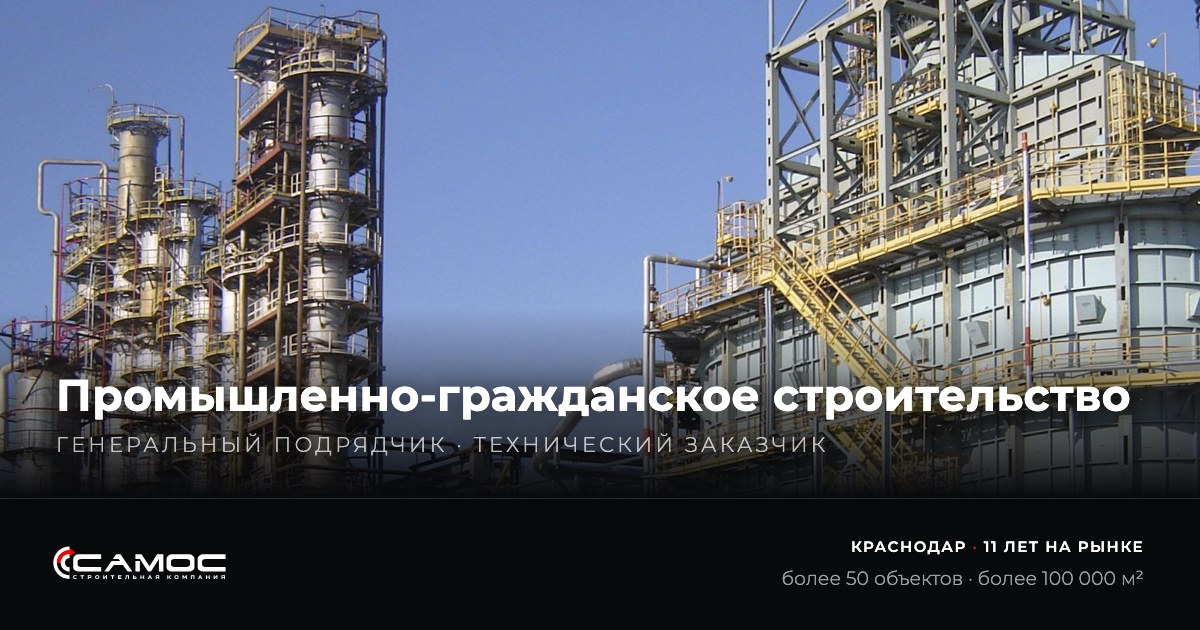
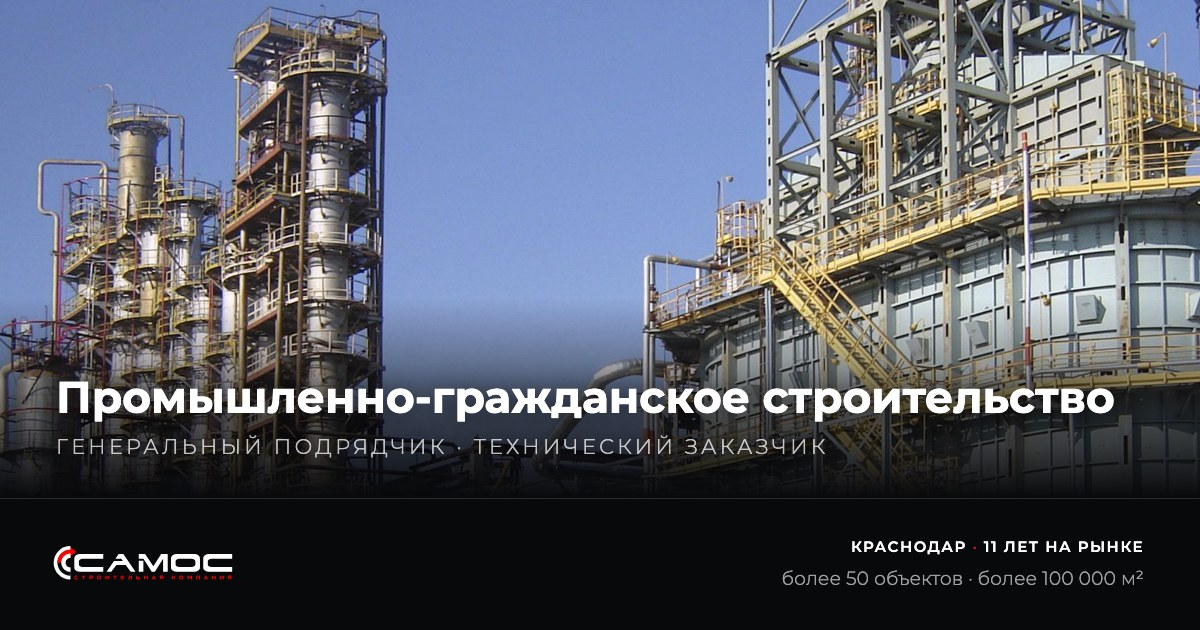
previews batch: 1 шт

diff --git a/sk-samos-krasnodar/index.html b/sk-samos-krasnodar/index.html
@@ -105,12 +105,12 @@ ul,ol{padding:0;list-style:none}
 .sec{padding:clamp(72px,8vw,128px) 0;position:relative;scroll-margin-top:100px}
 .sec.alt{background:var(--bg-2)}
 .sec-title{text-align:center;font-size:clamp(24px,2.9vw,40px);line-height:1.15;text-transform:uppercase;letter-spacing:.03em;font-weight:600;margin-bottom:clamp(44px,5vw,72px)}
-.sec-title::after{content:"";display:block;width:44px;height:2px;background:var(--red);margin:22px auto 0}
+.sec-title::after{content:"";display:block;width:clamp(96px,10vw,148px);height:2px;background:var(--red);margin:24px auto 0}
 
 /* о компании */
 .about{max-width:1120px;margin-inline:auto}
-.about-lead{font-size:clamp(21px,2.3vw,33px);line-height:1.42;font-weight:400;color:var(--white)}
-.about-text{margin-top:clamp(24px,2.8vw,40px);font-size:clamp(16.5px,1.4vw,20.5px);line-height:1.72;font-weight:300;color:var(--soft)}
+.about p{font-size:clamp(21px,2.3vw,33px);line-height:1.42;font-weight:400;color:var(--white)}
+.about p+p{margin-top:clamp(24px,2.8vw,40px)}
 
 /* фото-вставка */
 .band{background:#000;overflow:hidden}
@@ -139,11 +139,10 @@ ul,ol{padding:0;list-style:none}
 .doc img{width:100%;aspect-ratio:3/4;object-fit:cover;object-position:top center}
 .doc .t{display:block;margin-top:18px;font-size:12.5px;line-height:1.45;font-weight:600;letter-spacing:.06em;text-transform:uppercase}
 .doc small{display:block;margin-top:6px;color:var(--muted);font-weight:300;font-size:13px;line-height:1.45}
-.doclist{display:grid;grid-template-columns:repeat(3,minmax(0,1fr));gap:0 44px;margin-top:clamp(56px,6vw,88px)}
-.doclist .r{border-top:1px solid var(--line-2);padding:24px 0 32px}
-.doclist dt{font-size:11px;letter-spacing:.14em;text-transform:uppercase;color:var(--faint);font-weight:600;line-height:1.5;margin-bottom:12px}
-.doclist dd{font-size:15px;color:var(--white);line-height:1.6;font-weight:300}
-.doclist dd em{font-style:normal;color:var(--muted);font-size:13.5px;display:block;margin-top:6px}
+.advs{list-style:none;display:grid;grid-template-columns:repeat(2,minmax(0,1fr));gap:0 clamp(40px,5.5vw,84px);max-width:1200px;margin-inline:auto}
+.advs li{display:grid;grid-template-columns:auto 1fr;gap:0 22px;align-items:start;border-top:1px solid var(--line);padding:26px 0 32px}
+.advs .n{font-size:12.5px;font-weight:600;letter-spacing:.1em;color:var(--red);padding-top:6px;font-variant-numeric:tabular-nums}
+.advs p{font-size:clamp(16px,1.35vw,19px);line-height:1.64;font-weight:300;color:var(--soft)}
 
 /* заявка */
 .contact{display:grid;grid-template-columns:repeat(12,1fr);gap:0 28px}
@@ -171,7 +170,7 @@ ul,ol{padding:0;list-style:none}
 .footer{background:#08090B;border-top:1px solid var(--line);color:var(--muted);font-size:14px;font-weight:300}
 .footer-in{display:flex;align-items:center;justify-content:space-between;flex-wrap:wrap;gap:28px 48px;padding-block:48px}
 .fbrand{display:block;line-height:0}
-.fbrand img{height:60px;width:auto}
+.fbrand img{height:72px;width:auto}
 .fcontacts{display:flex;flex-wrap:wrap;align-items:center;gap:12px 32px}
 .fcontacts a{color:var(--soft);text-decoration:none;white-space:nowrap;transition:color .2s}
 .fcontacts a:hover{color:var(--white)}
@@ -213,8 +212,8 @@ ul,ol{padding:0;list-style:none}
   .form,.info{grid-column:1/-1}
   .info{margin-top:52px}
 }
-@media (max-width:1100px){
-  .doclist{grid-template-columns:repeat(2,minmax(0,1fr))}
+@media (max-width:860px){
+  .advs{grid-template-columns:1fr;max-width:640px}
 }
 @media (max-width:760px){
   .objs{grid-template-columns:1fr}
@@ -236,8 +235,7 @@ ul,ol{padding:0;list-style:none}
   .band img{height:240px}
   .docgrid{grid-template-columns:1fr;max-width:440px;gap:36px}
   .doc img{aspect-ratio:16/10}
-  .doclist{grid-template-columns:1fr}
-  .doclist .r{padding:20px 0 24px}
+  .advs li{padding:22px 0 26px;gap:0 16px}
   .fbrand img{height:52px}
   .footer-in{padding-block:40px}
   .fcontacts{flex-direction:column;align-items:flex-start;gap:10px}
@@ -310,13 +308,30 @@ ul,ol{padding:0;list-style:none}
   <div class="wrap">
     <h2 class="sec-title" id="h-about" data-rv>О компании</h2>
     <div class="about" data-rv>
-      <p class="about-lead">ООО «СК «Самос» — динамично развивающаяся строительная компания, основанная в 2015 году. Компания является членом Союза «СРО «Межрегиональный альянс строителей» и обладает всеми необходимыми допусками и аккредитациями, позволяющими вести общестроительные и специальные работы от этапа проектирования до сдачи готового объекта.</p>
-      <p class="about-text">Специалисты компании аттестованы и включены в Национальный реестр специалистов в области строительства, имеют большой опыт в строительстве крупных и знаковых проектов: комплекс гидрокрекинга Афипского НПЗ, парогазовые ТЭС в Севастополе и Симферополе, центр высокопрецизионной металлообработки АО «НПП «Исток» им. А. И. Шокина» во Фрязино.</p>
+      <p>ООО «СК «Самос» — динамично развивающаяся строительная компания, основанная в 2015 году. Компания является членом Союза «СРО «Межрегиональный альянс строителей» и обладает всеми необходимыми допусками и аккредитациями, позволяющими вести общестроительные и специальные работы от этапа проектирования до сдачи готового объекта.</p>
+      <p>Специалисты компании аттестованы и включены в Национальный реестр специалистов в области строительства, имеют большой опыт в строительстве крупных и знаковых проектов.</p>
     </div>
   </div>
 </section>
 
-<div class="band" aria-hidden="true"><img src="assets/team.jpg" alt="" width="1400" height="655" loading="lazy"></div>
+<section class="sec alt" id="adv" aria-labelledby="h-adv">
+  <div class="wrap">
+    <h2 class="sec-title" id="h-adv" data-rv>Наши преимущества</h2>
+    <ol class="advs" data-rv>
+      <li><span class="n">01</span><p>Использование комплексного подхода в решении поставленных задач, в том числе за счёт тесного сотрудничества с нашими партнёрами.</p></li>
+      <li><span class="n">02</span><p>Рациональное использование финансовых ресурсов заказчика.</p></li>
+      <li><span class="n">03</span><p>Работа по строгим международным нормам. Это позволяет добиться не только отличных эстетических результатов, но и надёжности и долговечности выполненных работ.</p></li>
+      <li><span class="n">04</span><p>Прямое сотрудничество с производителями. Широкая сеть производителей и поставщиков позволяет использовать лучшие стройматериалы по минимальной стоимости.</p></li>
+      <li><span class="n">05</span><p>Соблюдение сроков. Строгий контроль на каждом этапе работ позволяет эффективно соблюдать сроки без потери качества.</p></li>
+      <li><span class="n">06</span><p>Гарантия качества. Мы уверены в качестве выполненных работ и предоставляем нашим заказчикам долгосрочную гарантию.</p></li>
+      <li><span class="n">07</span><p>Открытость. Мы всегда идём навстречу нашим партнёрам и учитываем Ваши пожелания при выполнении работ.</p></li>
+      <li><span class="n">08</span><p>Повышение конкурентоспособности строительных услуг путём оптимизации производственных и бизнес-процессов, повышения качества клиентского сервиса и укрепления деловой репутации компании.</p></li>
+      <li><span class="n">09</span><p>Индивидуальный подход к каждому клиенту. Мы гибко подходим к интересам каждого нашего клиента и выбираем оптимальные схемы сотрудничества. Клиент получает полную информационную поддержку и практическую помощь на каждом этапе строительства — от сбора разрешительной документации до введения объекта в эксплуатацию.</p></li>
+    </ol>
+  </div>
+</section>
+
+<div class="band" aria-hidden="true"><img src="assets/band.jpg" alt="" width="1800" height="700" loading="lazy"></div>
 
 <section class="sec alt" id="projects" aria-labelledby="h-projects">
   <div class="wrap">
@@ -424,14 +439,6 @@ ul,ol{padding:0;list-style:none}
         <small>Епишин К. Н., С‑23‑090757</small>
       </button>
     </div>
-    <dl class="doclist" data-rv>
-      <div class="r"><dt>Саморегулируемая организация</dt><dd>Союз «Саморегулируемая организация «Межрегиональный альянс строителей»<em>Номер в госреестре СРО‑С‑170‑13012010</em></dd></div>
-      <div class="r"><dt>Членство в СРО</dt><dd>Регистрационный номер 117230728<em>В реестре с 16.03.2017, право действует</em></dd></div>
-      <div class="r"><dt>Право выполнения работ</dt><dd>Строительство, реконструкция, капитальный ремонт и снос объектов капитального строительства</dd></div>
-      <div class="r"><dt>Уровень ответственности</dt><dd>Второй уровень по компенсационному фонду возмещения вреда и по фонду обеспечения договорных обязательств<em>Договоры стоимостью до 500 млн ₽</em></dd></div>
-      <div class="r"><dt>Реестр специалистов НОСТРОЙ</dt><dd>Копачев Владимир Владимирович — С‑23‑090756<br>Епишин Константин Николаевич — С‑23‑090757</dd></div>
-      <div class="r"><dt>Страхование</dt><dd>Гражданская ответственность застрахована в АО «АльфаСтрахование»</dd></div>
-    </dl>
   </div>
 </section>
 
